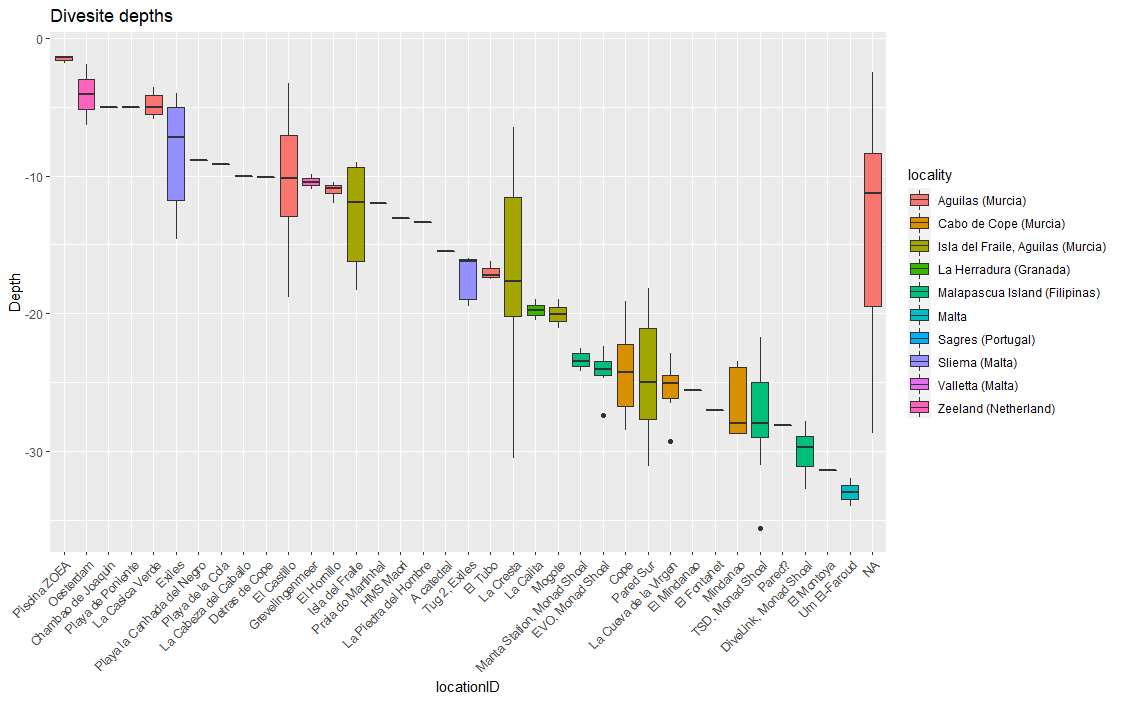
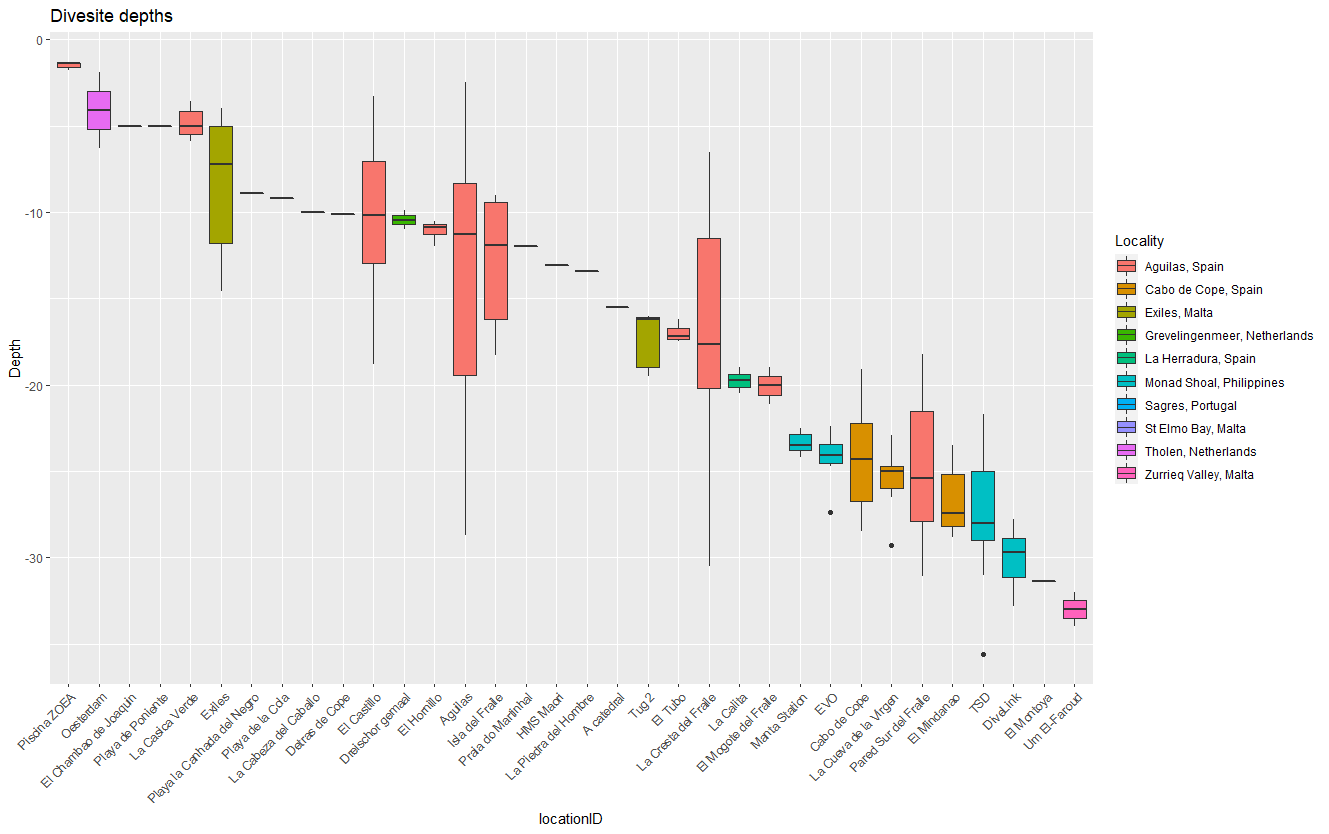
Update README

diff --git a/README.md b/README.md
@@ -21,13 +21,6 @@ Access the interactive map here:
 ***
 
 
-## Dive sites depths variation
-
-![divesite_depths](images/divesite_depths.png)
-
-***
-
-
 ## Cumulative number of dives
 I was pretty bored and couldn't get to do a nice simple cumulative with my crappy data so there you got and hard-to-understand fancy mega-plot.
 <i> The blue vertical dashed lines mark the date when I completed my OWD, AOWD, Rescue and Divemaster courses </i>
@@ -36,6 +29,27 @@ I was pretty bored and couldn't get to do a nice simple cumulative with my crapp
 
 ***
 ***  
+***
+
+
+## Dives per country and region
+
+![divecount_reg](images/divecount_reg.png)
+
+***
+
+
+## Dive sites depths variation
+
+![divesite_depths](images/divesite_depths.png)
+
+***
+
+
+## Platform type dives
+
+![divetypes](images/divetypes.png)
+
 ***
 
 
